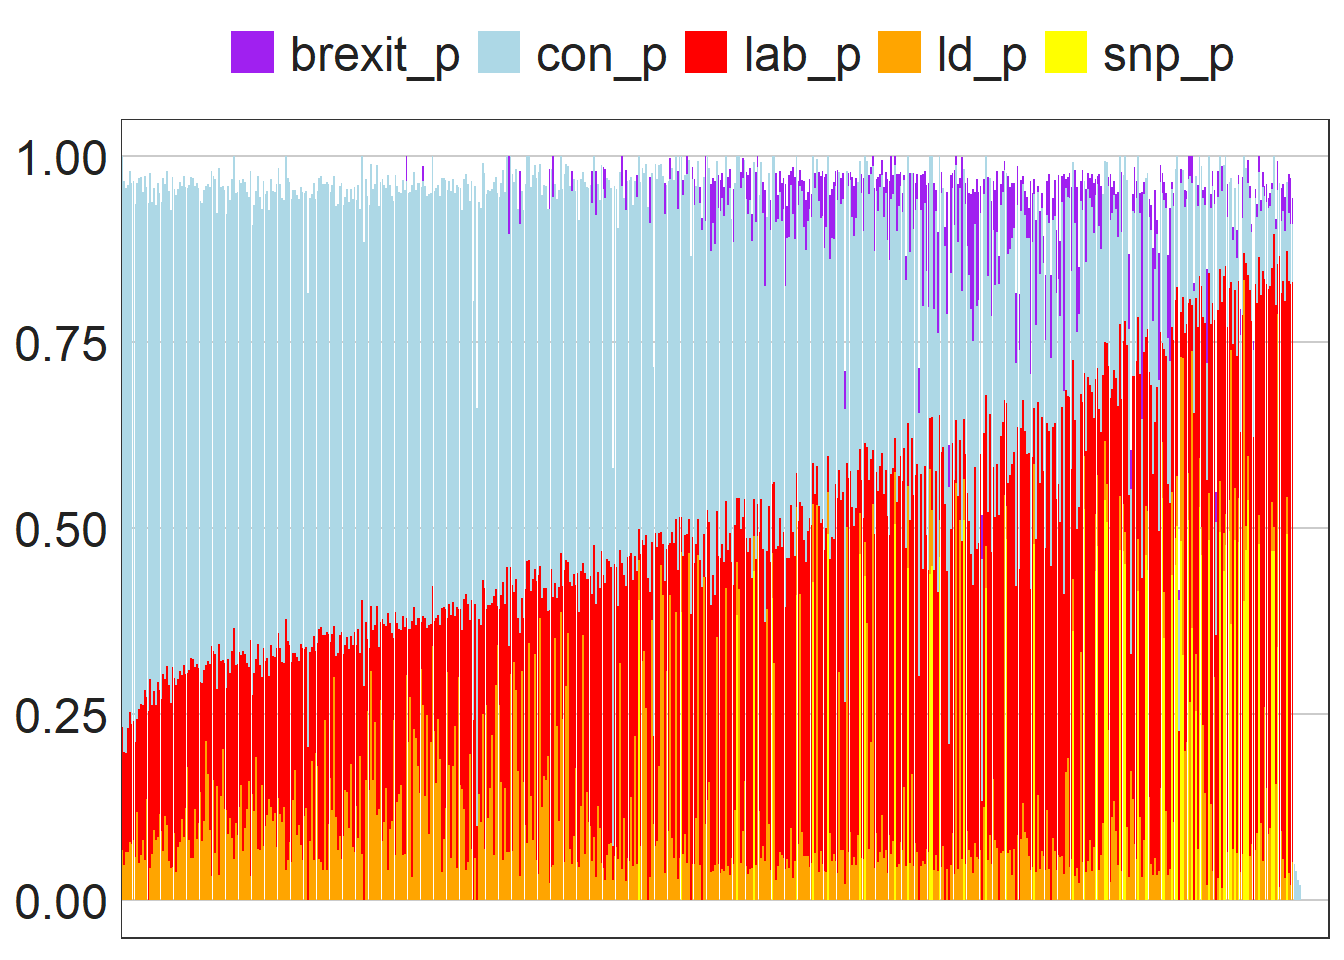
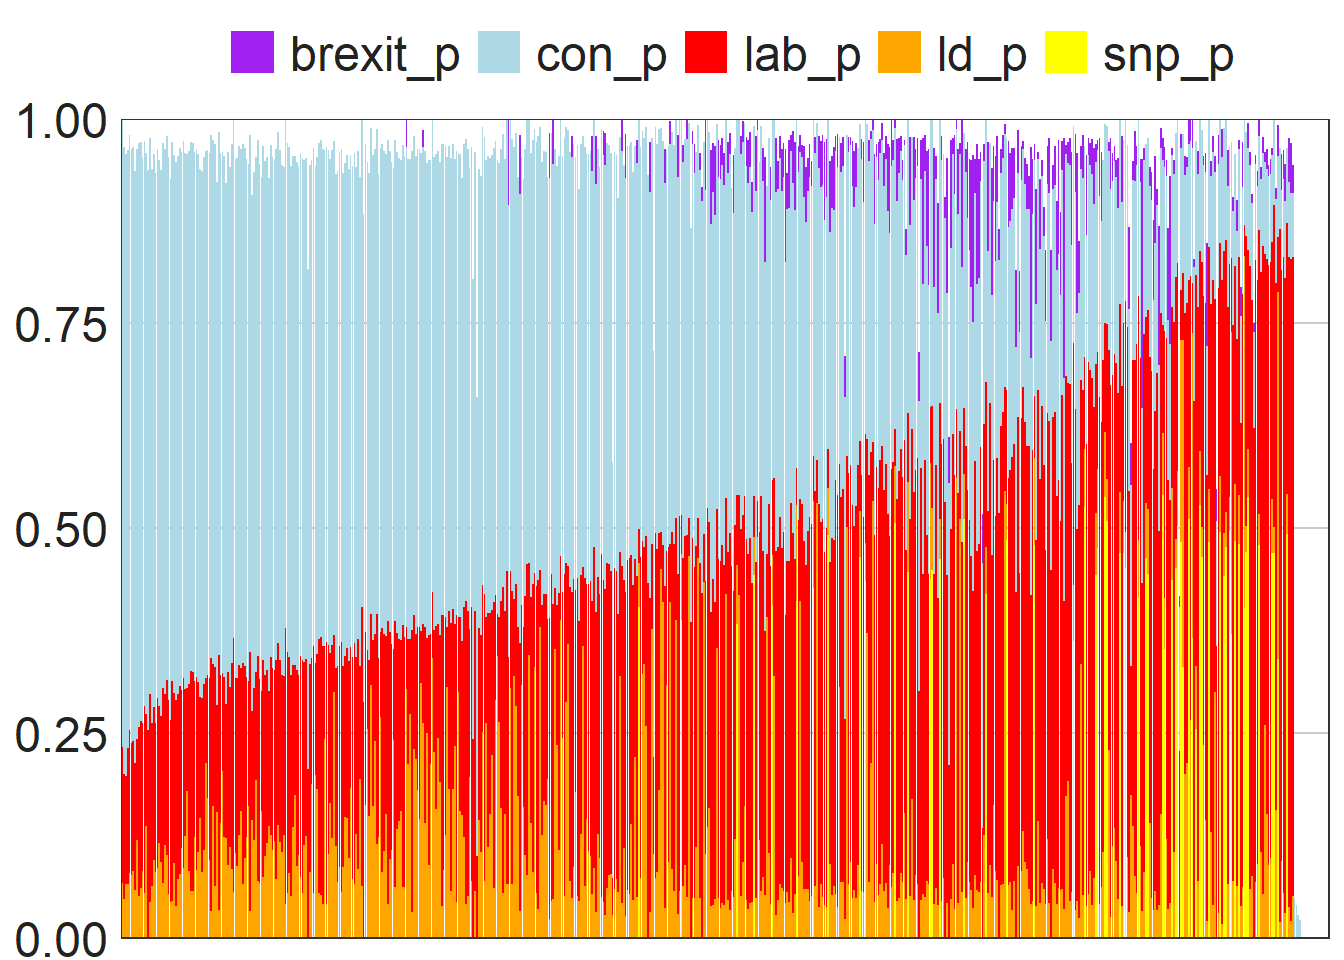
bbplot

Changed region(s): [[0.0, 0.0938, 0.9688, 1.0]]

diff --git a/content/post/2020-07-01-bbc-style-ggplot.html b/content/post/2020-07-01-bbc-style-ggplot.html
@@ -101,6 +101,8 @@ election %&gt;%
   ggplot(aes(constituency_name, Proportion, fill = Party)) +
   geom_col()+
   scale_fill_manual(values=party_colours)+
+  scale_x_discrete(expand = c(0,0))+
+  scale_y_continuous(expand = c(0,0))+
   labs(
     x=&quot;&quot;,
     y=&quot;Vote Share&quot;

diff --git a/public/2020/07/01/bbc-style-ggplot/index.html b/public/2020/07/01/bbc-style-ggplot/index.html
@@ -167,6 +167,8 @@ election %&gt;%
   ggplot(aes(constituency_name, Proportion, fill = Party)) +
   geom_col()+
   scale_fill_manual(values=party_colours)+
+  scale_x_discrete(expand = c(0,0))+
+  scale_y_continuous(expand = c(0,0))+
   labs(
     x=&quot;&quot;,
     y=&quot;Vote Share&quot;
